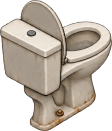
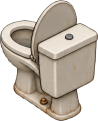
Arsenal com arte e arrumado; vaso do banheiro com as costas no giro certo
- Bancada de armas, armário de armas, armário de munição (fechado e
  aberto), baú militar (fechado e aberto), caixa de munição, banqueta
  giratória, painel de ferramentas, suporte de armas brancas, alvo de
  papel e mancha de óleo; chão de chapa xadrez e parede de blocos
  verde-oliva.
- Os armários de armas ficam dos dois lados da porta, com o suporte de
  facas entre eles; os de munição e os baús na parede da esquerda e no
  canto; a bancada em U no meio, virada para dentro, com as banquetas; as
  caixas de munição empilhadas no canto da frente.
- Peças novas para não trocar a arte das que já existem em outros
  cômodos: locker_ammo, chest_army, ammo_box, stool_metal, oil_stain e os
  três de parede. A folha do armário de armas trouxe as duas costas
  iguais: o giro 6 é o espelho do 0.
- Conferência dos eixos de todas as folhas (o comprimento do móvel no
  eixo do giro): o vaso sanitário tinha as duas vistas de costas
  trocadas. SEDE_REV 20.

diff --git a/shared/src/furni.ts b/shared/src/furni.ts
@@ -137,7 +137,9 @@ const FURNI_METERS: FurniDef[] = [
   { id: 'pilha_chao', name: 'Itens no Chão', category: 'armazenamento', kind: 'pilha', width: 1, depth: 1, height: 0.12, walkable: true, interno: true, rotations: [0], colors: ['#5c4630', '#2e241a'], desc: 'O que alguém largou aqui. Quem passar pode pegar.' },
   { id: 'crate_wood', name: 'Caixote de Madeira', category: 'armazenamento', kind: 'crate', width: 1, depth: 1, height: 0.8, stackable: true, rotations: ALL, colors: ['#6b4a2e', '#4a321f'] },
   { id: 'crate_metal', name: 'Caixa Metálica', category: 'armazenamento', kind: 'crate_metal', width: 1, depth: 1, height: 0.8, stackable: true, rotations: ALL, colors: ['#35393f', '#24272b', '#7a6a4a'] },
-  { id: 'chest_military', name: 'Baú Militar', category: 'armazenamento', kind: 'chest', width: 2, depth: 1, height: 0.7, stackable: true, rotations: ALL, colors: ['#3e3a2c', '#2a271e', '#8a8060'] },
+  { id: 'chest_military', name: 'Baú Militar Grande', category: 'armazenamento', kind: 'chest', width: 2, depth: 1, height: 0.7, stackable: true, rotations: ALL, colors: ['#3e3a2c', '#2a271e', '#8a8060'] },
+  { id: 'chest_army', name: 'Baú Militar', category: 'arsenal', kind: 'chest', width: 1, depth: 1, height: 0.45, stackable: true, states: 2, rotations: ALL, colors: ['#5a6a2a', '#2a2d1e', '#8a7a5a'], desc: 'Madeira e metal verde-oliva. Clique duplo abre: coletes e lanternas dentro.' },
+  { id: 'ammo_box', name: 'Caixa de Munição', category: 'arsenal', kind: 'crate_metal', width: 1, depth: 1, height: 0.3, stackable: true, rotations: ALL, colors: ['#4a5a2a', '#2a2d1e', '#8a7a5a'] },
   { id: 'barrel', name: 'Barril', category: 'armazenamento', kind: 'barrel', width: 1, depth: 1, height: 1.0, stackable: true, rotations: ALL, colors: ['#3a3f2e', '#1f2219'] },
 
   // ---------- Decoração ----------
@@ -204,6 +206,9 @@ const FURNI_METERS: FurniDef[] = [
   // arsenal
   { id: 'weapon_rack', name: 'Armário de Armas', category: 'arsenal', kind: 'weapon_rack', width: 2, depth: 1, height: 2.0, rotations: ALL, colors: ['#2a2d31', '#1a1c1f'] },
   { id: 'gun_table', name: 'Bancada de Armas', category: 'arsenal', kind: 'table_big', width: 3, depth: 1, height: 0.9, stackable: true, rotations: ALL, colors: ['#2a3a2a', '#1f2219', '#6a7a5a'] },
+  { id: 'locker_ammo', name: 'Armário de Munição', category: 'arsenal', kind: 'locker', width: 1, depth: 1, height: 1.9, states: 2, rotations: ALL, colors: ['#5a6a3a', '#2a2d1e'], desc: 'Aço verde-oliva com cadeado. Clique duplo abre: caixas de munição e carregadores.' },
+  { id: 'stool_metal', name: 'Banqueta Giratória', category: 'arsenal', kind: 'stool', width: 1, depth: 1, height: 0.6, sit: true, rotations: ALL, colors: ['#8a5a3a', '#5a6a3a'] },
+  { id: 'oil_stain', name: 'Mancha de Óleo', category: 'decoracao', kind: 'dirt', width: 1, depth: 1, height: 0.01, walkable: true, stackable: true, flat: true, rotations: [0], colors: ['#1a1a14', '#3a3a2a'] },
   // depósito
   { id: 'rubble', name: 'Entulho', category: 'armazenamento', kind: 'rubble', width: 2, depth: 2, height: 0.5, rotations: [0], colors: ['#5a5550', '#4a3222'] },
   { id: 'console', name: 'Bancada de Computadores', category: 'escritorio', kind: 'console', width: 2, depth: 1, height: 0.78, stackable: true, states: 2, rotations: ALL, colors: ['#2e2a36', '#8a78c0', '#7fd0ff'], desc: 'Dois monitores e teclado. Clique duplo liga/desliga.' },
@@ -246,6 +251,9 @@ export const WALL_FURNI_LIST: WallFurniDef[] = [
   { id: 'monitor_wall', name: 'Painel de Monitoramento', category: 'parede', kind: 'tv', w: 61, h: 52, states: 2, colors: ['#3a3d42', '#d8e0e8'], desc: 'Quatro monitores com as câmeras da Sede. Clique duplo liga/desliga.' },
   { id: 'ac_wall', name: 'Ar-condicionado', category: 'parede', kind: 'fan', w: 38, h: 17, colors: ['#d8ccb0'] },
   { id: 'shelf_wall', name: 'Prateleira de Parede', category: 'parede', kind: 'shelf', w: 42, h: 20, colors: ['#8a6a4a'], desc: 'Manuais, um rádio e um telefone velho.' },
+  { id: 'tool_board', name: 'Painel de Ferramentas', category: 'parede', kind: 'board', w: 58, h: 41, colors: ['#5a6a3a', '#b3261e'], desc: 'Chaves, alicates, uma lanterna e fita.' },
+  { id: 'blade_rack', name: 'Suporte de Armas Brancas', category: 'parede', kind: 'board', w: 58, h: 35, colors: ['#5a6a3a', '#8a6a4a'], desc: 'Facão, machado, duas facas e um bastão.' },
+  { id: 'target_paper', name: 'Alvo de Papel', category: 'parede', kind: 'poster_sigil', w: 29, h: 46, colors: ['#e8d8b0', '#2a2a2a'], desc: 'A silhueta furada de bala.' },
   { id: 'towel_dispenser', name: 'Papeleira', category: 'parede', kind: 'dispenser', w: 18, h: 22, colors: ['#e8e4dc'] },
   { id: 'extinguisher', name: 'Extintor', category: 'parede', kind: 'extinguisher', w: 12, h: 30, colors: ['#b3261e', '#1a1a1a'] },
 ];

diff --git a/server/src/seedSede.ts b/server/src/seedSede.ts
@@ -16,7 +16,7 @@ import { buildRoom, plan, type FloorSeed, type WallSeed } from './seed';
 export const SEDE = 'Sede · ';
 export const SEDE_CODE = '0413';
 /** Versão da montagem da Sede: subiu, a Sede é refeita no lugar (mesmos cômodos, peças e registro). */
-export const SEDE_REV = 18;
+export const SEDE_REV = 20;
 
 /** Planta retangular com a porta na parede de cima (y = 0), na coluna doorX. */
 export function planTop(w: number, h: number, doorX: number): { heightmap: string; door: Door } {
@@ -700,7 +700,7 @@ const ROOMS: RoomSpec[] = [
     particles: ['dust'],
     lamp: 'fluorescent',
     name: SEDE + 'Arsenal',
-    description: 'Armas nas paredes, armários de munição e a bancada em U onde tudo é limpo e conferido.',
+    description: 'Os armários de armas dos dois lados da porta, os de munição e os baús nas paredes, e a bancada em U onde tudo é limpo e conferido.',
     layout: planTop(14, 10, 6),
     floorName: 'Subsolo',
     style: 'metal',
@@ -709,33 +709,39 @@ const ROOMS: RoomSpec[] = [
     plan: { x: 51, y: 26 },
     floor: [
       ['portal', 6, 1, 4],
+      // os armários de armas na parede do fundo, dos dois lados da porta, e os de munição no canto
       ['weapon_rack', 0, 1, 4],
       ['weapon_rack', 2, 1, 4],
       ['weapon_rack', 8, 1, 4],
       ['weapon_rack', 10, 1, 4],
-      ['locker', 12, 1, 4],
-      ['locker', 13, 1, 4],
-      ['locker', 0, 4, 2],
-      ['locker', 0, 5, 2],
-      ['locker', 0, 6, 2],
-      ['locker', 0, 7, 2],
-      // bancada em U no meio
+      ['locker_ammo', 12, 1, 4],
+      ['locker_ammo', 13, 1, 4],
+      // mais armários de munição e os baús na parede da esquerda
+      ['locker_ammo', 0, 4, 2],
+      ['locker_ammo', 0, 5, 2],
+      ['locker_ammo', 0, 6, 2],
+      ['chest_army', 0, 8, 2],
+      ['chest_army', 0, 10, 2, undefined, 1],
+      // a bancada em U no meio, as bancadas viradas para dentro, com as banquetas
       ['gun_table', 4, 4, 4],
       ['gun_table', 7, 4, 4],
       ['gun_table', 4, 5, 2],
-      ['gun_table', 9, 5, 2],
-      ['stool', 6, 6, 0],
-      ['stool', 7, 6, 0],
-      ['chest_military', 13, 3, 2],
-      ['crate_metal', 11, 8, 0],
-      ['crate_metal', 12, 8, 0],
-      ['crate_metal', 12, 9, 0],
-      ['crate_metal', 13, 9, 0],
-      ...lamps([5, 3], [10, 3], [7, 9]),
+      ['gun_table', 9, 5, 6],
+      ['stool_metal', 6, 6, 0],
+      ['stool_metal', 7, 6, 0],
+      ['oil_stain', 6, 8, 0],
+      // as caixas de munição empilhadas no canto da frente
+      ['ammo_box', 12, 9, 4],
+      ['ammo_box', 13, 9, 4],
+      ['ammo_box', 13, 8, 2],
+      ['ammo_box', 13, 9, 4],
+      ...lamps([5, 3], [10, 3], [7, 8]),
     ],
     wall: [
-      ['emergency_light', 'r', 1, 7.5, 3.8],
-      ['board_investigation', 'l', 0, 9.2, 2.4],
+      ['blade_rack', 'r', 1, 5.0, 2.3],
+      ['emergency_light', 'r', 1, 5.0, 4.4],
+      ['tool_board', 'l', 0, 2.7, 1.8],
+      ['target_paper', 'l', 0, 9.0, 1.9],
     ],
     links: [[6, 1, 'salao']],
   },

diff --git a/docs/SEDE-DA-ORDEM.md b/docs/SEDE-DA-ORDEM.md
@@ -223,11 +223,18 @@ Os leitos ficam nas paredes de cima e de baixo, com a cabeceira na parede. A ban
 
 ### Arsenal
 
-| Item | Id | Qtd | Casas | Altura | O que desenhar |
+Com arte desde 02/10. Os armários de armas ficam na parede do fundo, dos dois lados da porta, com o suporte de facas e machado entre eles. Os armários de munição ficam no canto do fundo e na parede da esquerda, junto do painel de ferramentas, dos baús (um aberto) e do alvo de papel furado. A bancada em U fica no meio, com as banquetas e uma mancha de óleo no chão, e as caixas de munição ficam empilhadas no canto da frente. Chão de chapa xadrez; parede de blocos verde-oliva e cinza.
+
+| Item | Id | Qtd | Casas | Altura | Estados |
 |---|---|---|---|---|---|
-| ✱ Bancada de armas | `gun_table` | 4 | 3×1 | 0,9 m | Tampo verde; montada em U no meio da sala. |
-| Armário de armas | `weapon_rack` | 4 | 2×1 | 2,0 m | Fuzis em pé, gaveta embaixo. |
-| Armários, baú, caixas | `locker`, `chest_military`, `crate_metal` | 6, 1, 4 | 1×1 | — | Verde-escuro militar. |
+| ✱ Bancada de armas | `gun_table` | 4 | 3×1 | 0,85 m | — |
+| Armário de armas | `weapon_rack` | 4 | 2×1 | 2,0 m | — (as costas são o espelho de uma vista só: a folha trouxe as duas iguais) |
+| Armário de munição | `locker_ammo` | 5 | 1×1 | 1,9 m | fechado / aberto |
+| Baú militar | `chest_army` | 2 | 1×1 | 0,45 m | fechado / aberto |
+| Caixa de munição | `ammo_box` | 4 | 1×1 | 0,3 m | — (empilha) |
+| Banqueta giratória | `stool_metal` | 2 | 1×1 | 0,6 m | — |
+| Mancha de óleo | `oil_stain` | 1 | 1×1 | chão | — |
+| Painel de ferramentas, suporte de armas brancas, alvo de papel | `tool_board`, `blade_rack`, `target_paper` (parede) | 1 cada | — | — | — |
 
 ## Personagens
 
